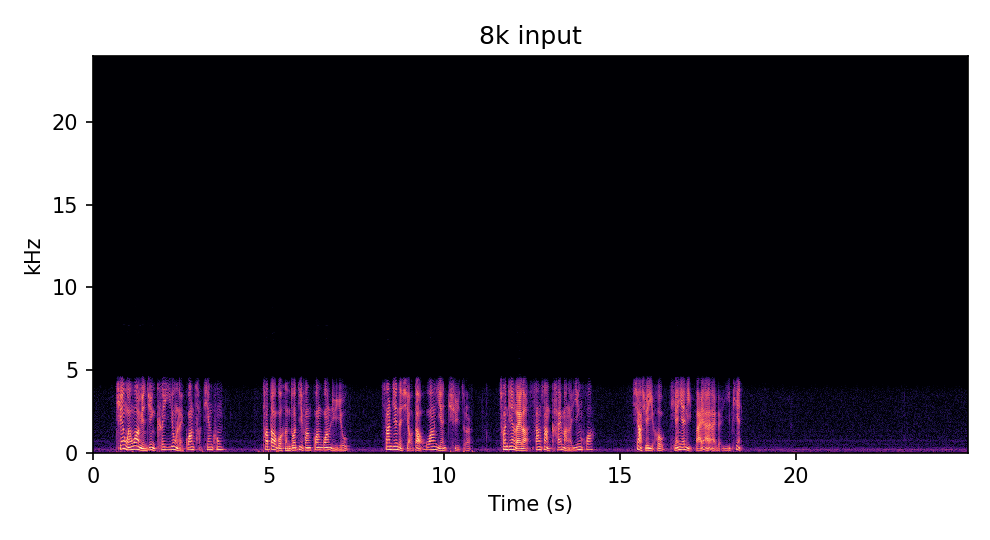
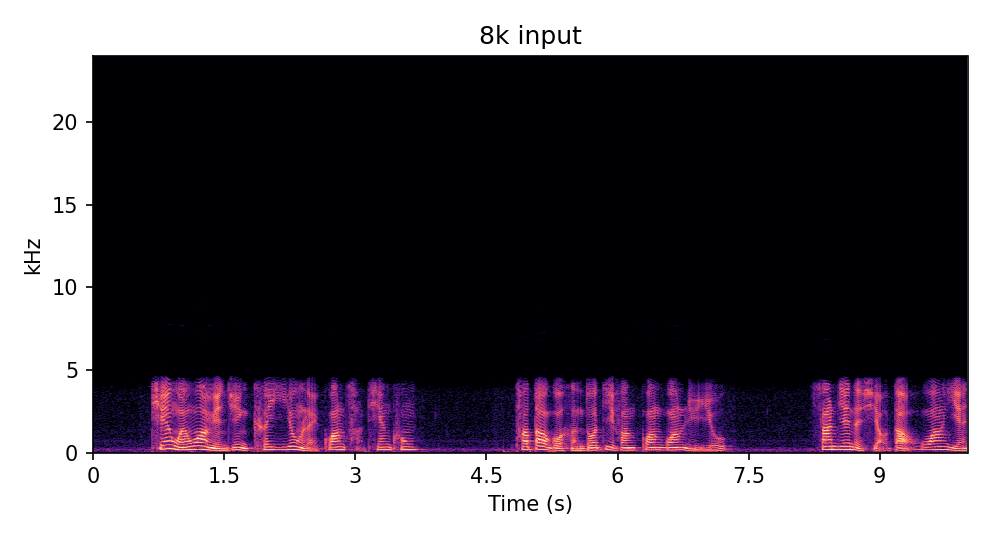
fix: crop long-audio spectrograms to first 10 s for alignment

Changed region(s): [[0.0909, 0.6815, 1.0, 0.9185]]

diff --git a/README.md b/README.md
@@ -39,6 +39,8 @@ bash run_ax650.sh samples/listen/8k/OSR_us_000_0010_input_8k.wav output.wav
 
 ### 8 kHz 输入（Open Speech / Samplelib）
 
+> 长音频 OSR / samplelib 的频谱图均截取**前 10 秒**；输入与输出使用同一时间段，方便对比。
+
 #### English
 
 **OSR_us_000_0010**
